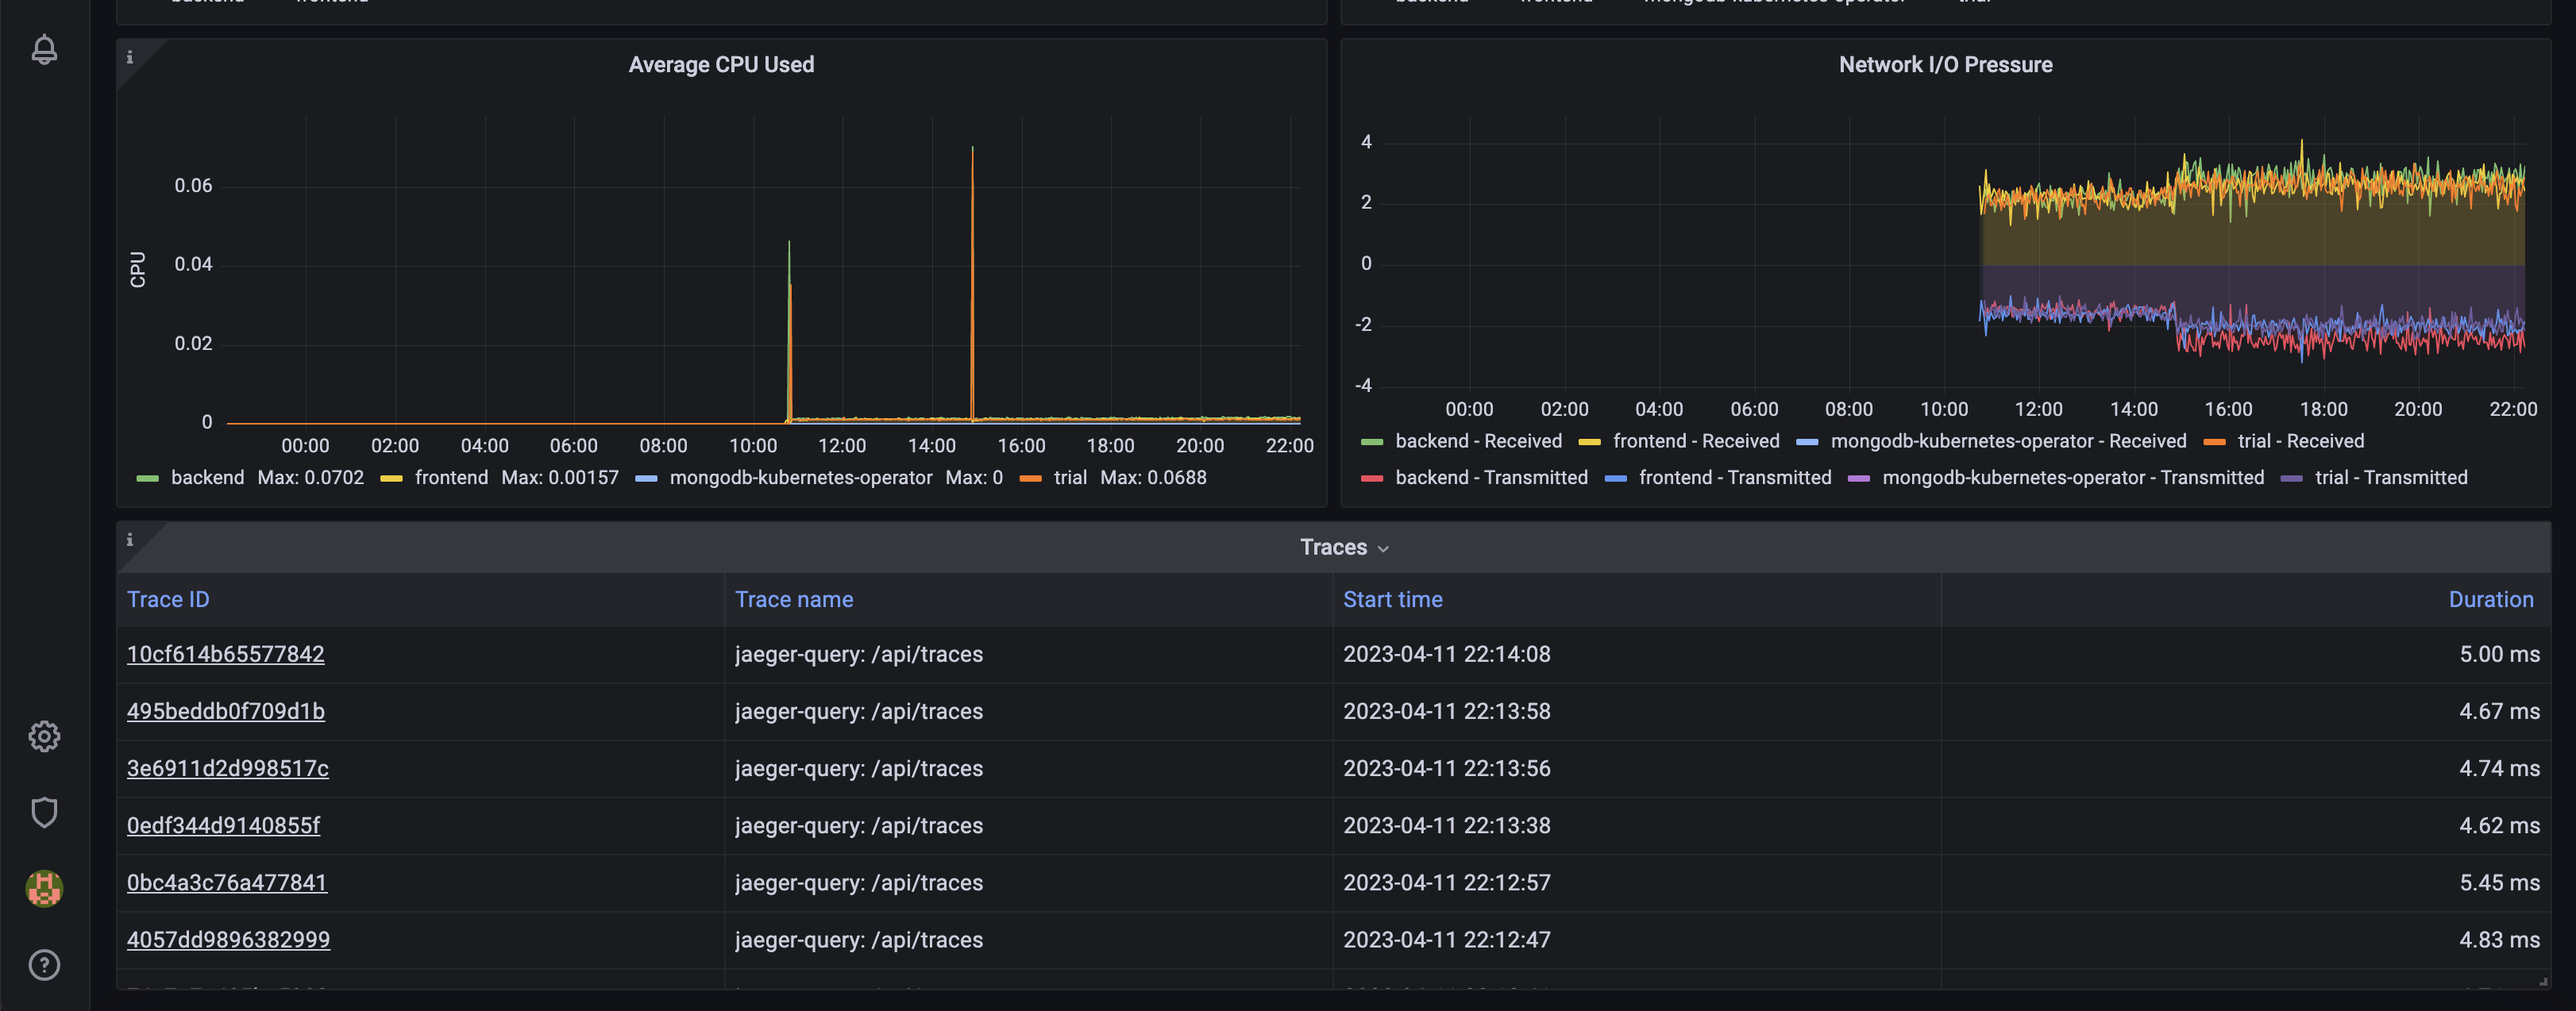
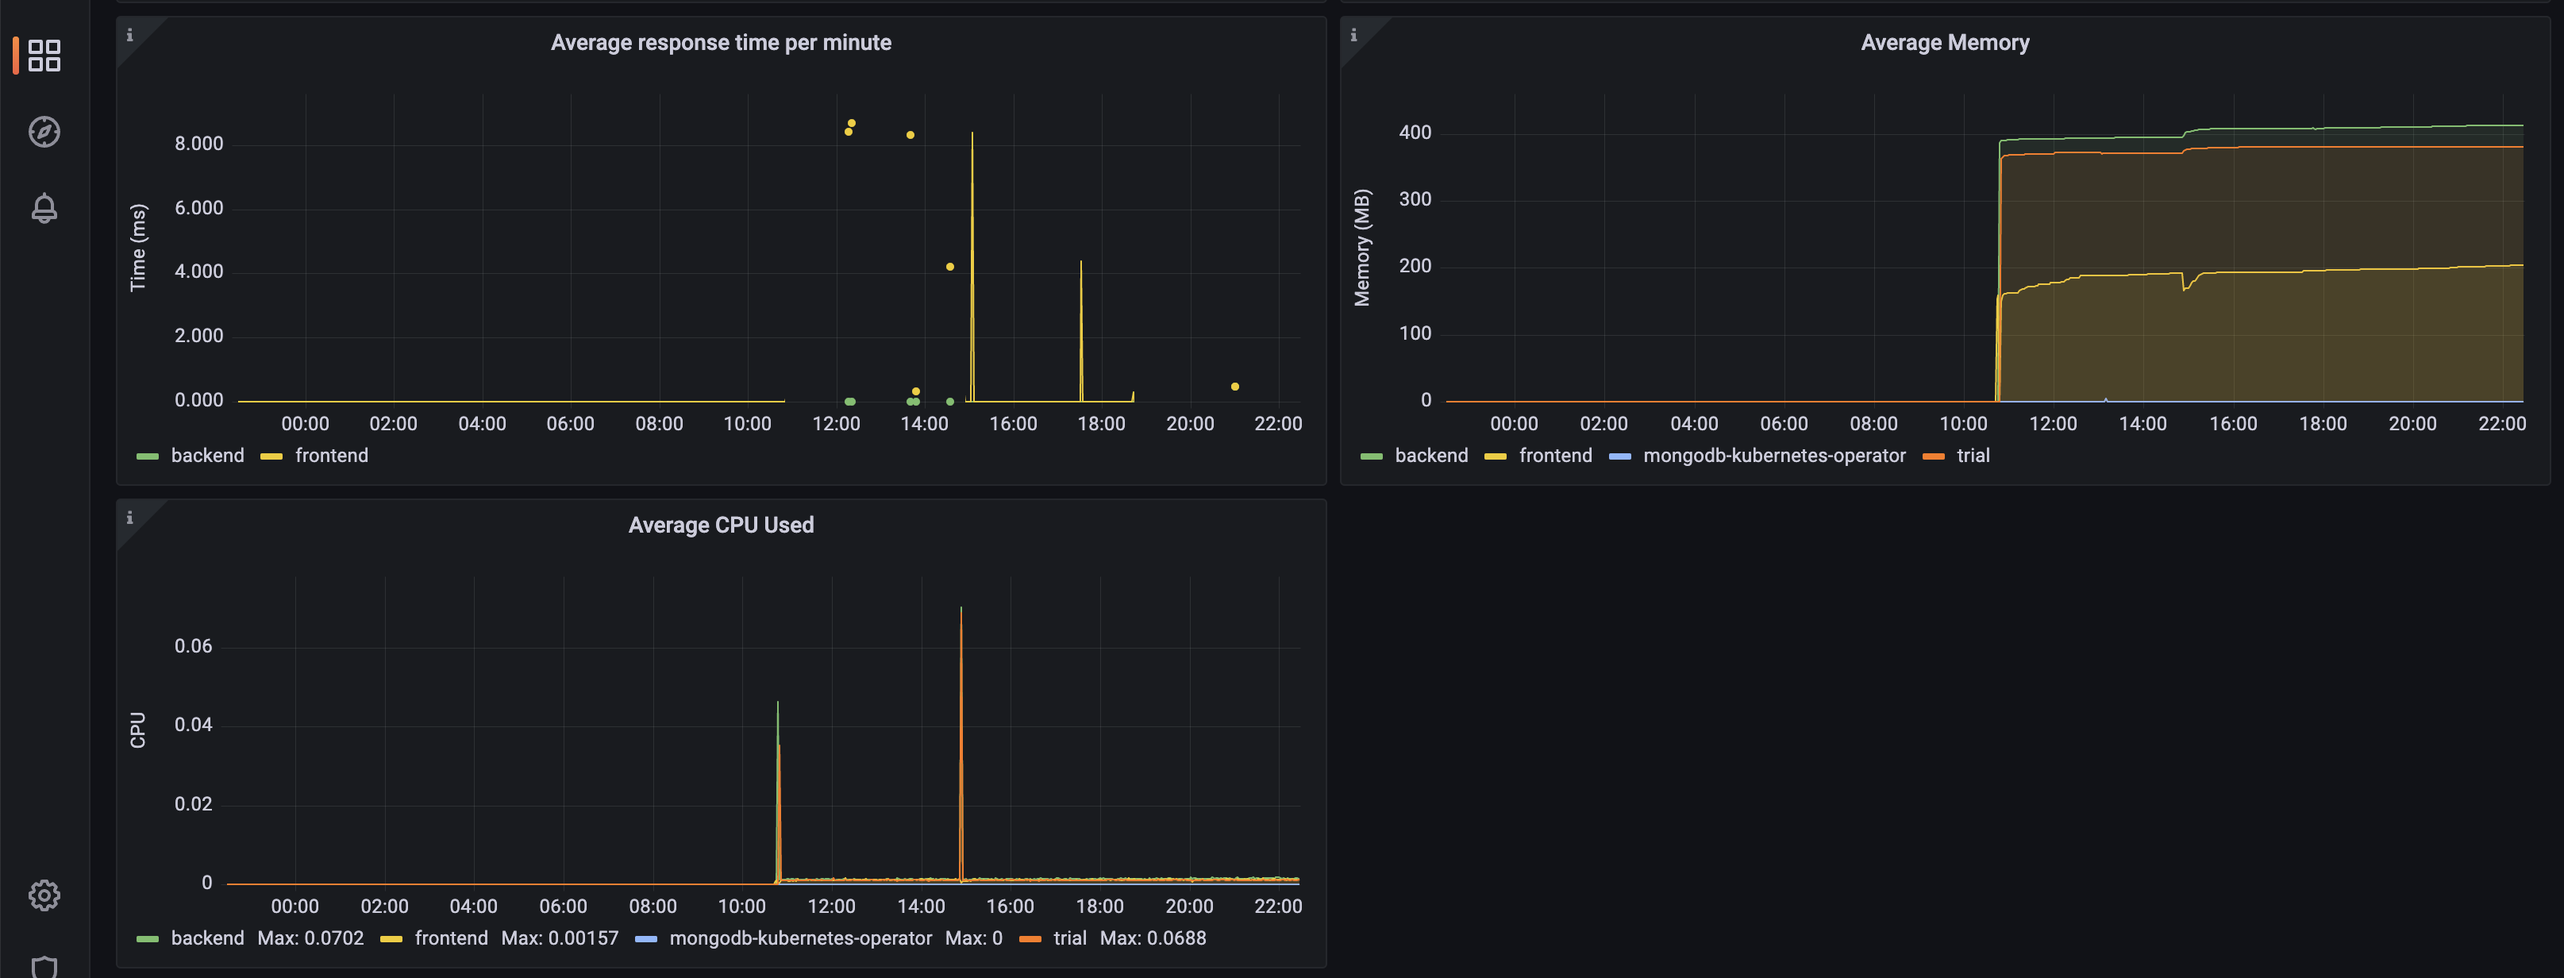
add dashboard

diff --git a/README.md b/README.md
@@ -15,7 +15,7 @@
 
 ## Create a basic dashboard
 
-![Prometheus Dashboard](./docs/images/prometheusDashboard.png)
+![Prometheus Dashboard](./docs/images/prometheusdashboard.png)
 
 ## Describe SLO/SLI
 
@@ -93,7 +93,8 @@ SLO:
 
 ## Final dashboard
 
-![KPI monitoring dashboard](./docs/images/finalDashboard.png)
+![KPI monitoring dashboard](./docs/images/finaldashboard1.png)
+![KPI monitoring dashboard](./docs/images/finaldashboard2.png)
 
 + Application stats panel - This panel shows information about the application services.
 + Successful requests per minute - This panel shows the total number of successful requests per service.
